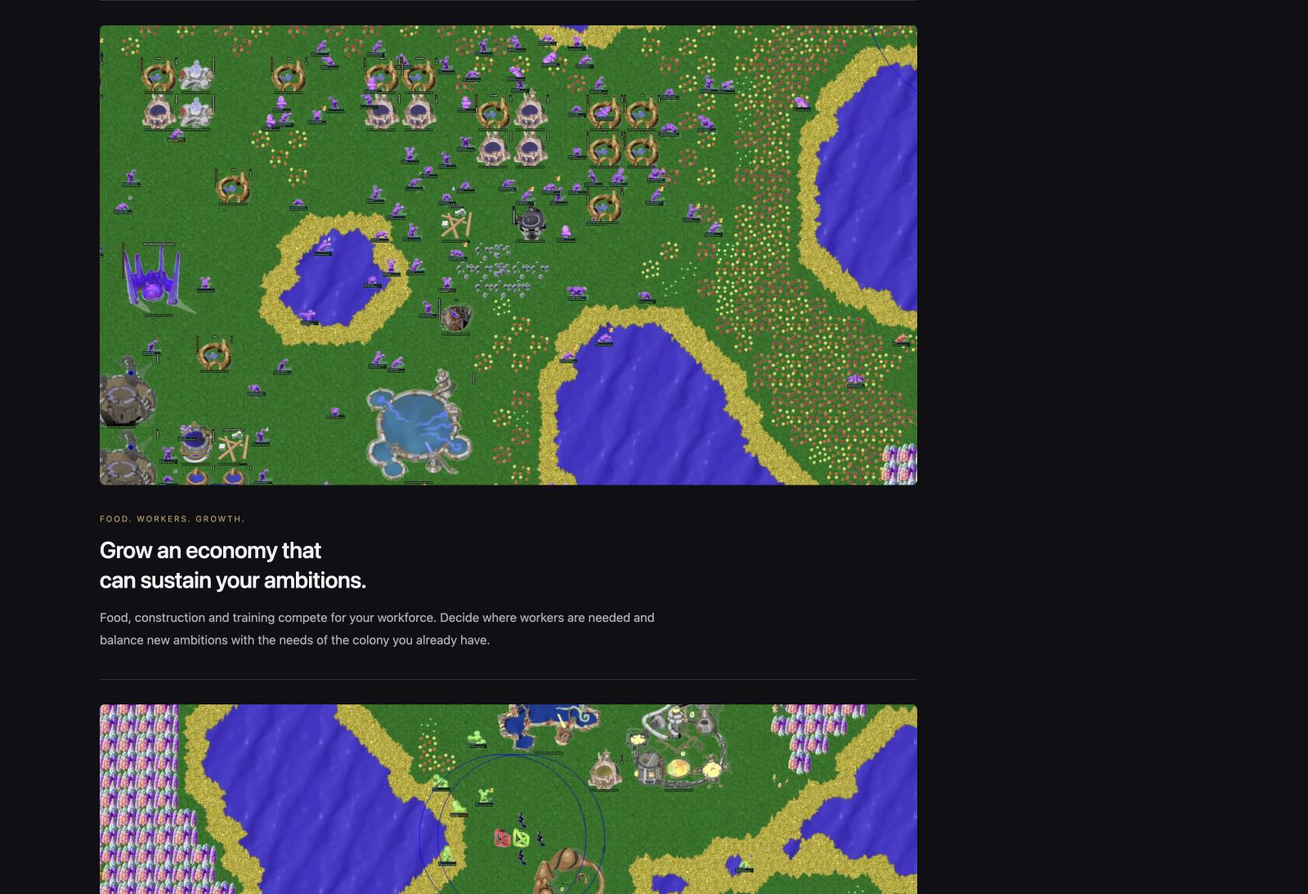
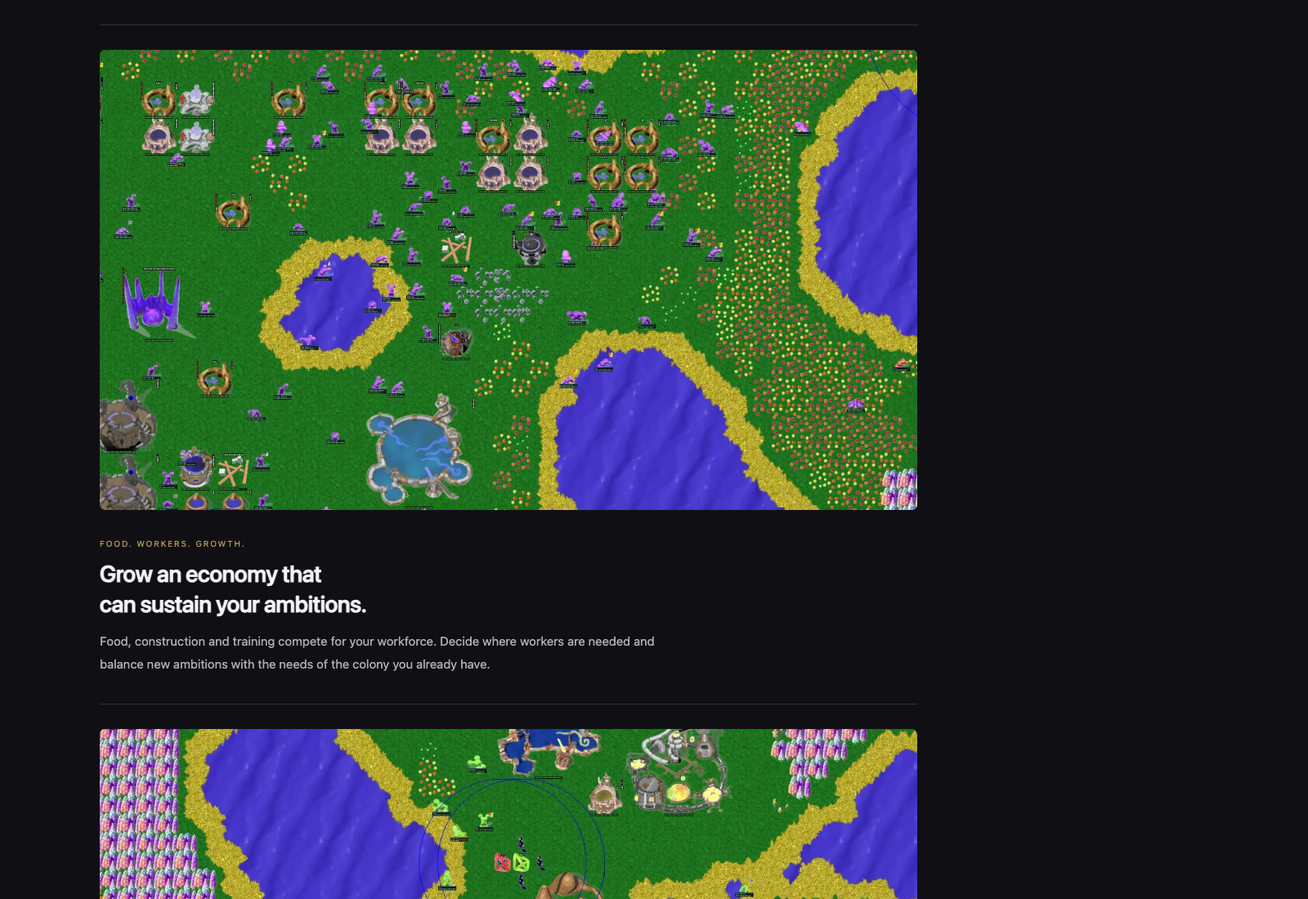
Exclude defective fog capture from store preview
Remove the controls capture from both the gallery and About after the user
identified abnormal fog-of-war rendering. Inspect the existing tutorial,
first-colony and exploration alternatives rather than substituting another
unqualified fog view. Use the documented clean defence replay for the third
About section, describe economic growth under rival pressure, and adjust the
gallery to four entries.

Retain the original PNG and its hash as diagnostic evidence. Mark its capture
record rejected for marketing, retract the earlier normal-fog qualification,
and distinguish the fog-enabled setting from a visually correct render. The
rendering/capture root cause remains unconfirmed; no game-source fix or new
capture is claimed.

Regenerate desktop, About, full-page and mobile review images. Check four
working gallery entries, absence of rejected-image references, decoded assets,
disabled offer action and no mobile overflow. Verify 64 relative links, JSON,
unchanged original capture bytes and whitespace. Record MKT-022 and preserve
remaining current-build capture and store-submission follow-up.

diff --git a/assets/epic-page-preview/style.css b/assets/epic-page-preview/style.css
@@ -1,4 +1,4 @@
-:root{color-scheme:dark;--bg:#101014;--muted:#96969f;--line:#303038;--ink:#f3f3f5;--cream:#f9e8bb;--blue:#26bbff}*{box-sizing:border-box}html{scroll-behavior:auto}body{margin:0;background:var(--bg);color:var(--ink);font:15px/1.65 -apple-system,BlinkMacSystemFont,"Segoe UI",Arial,sans-serif}.reviewbar{height:32px;display:flex;align-items:center;gap:8px;padding:0 28px;background:#202029;font-size:10px;letter-spacing:.12em;color:#c1c1cb}.reviewdot{width:6px;height:6px;background:#e2b85f;border-radius:50%}.reviewright{margin-left:auto;color:#93939f;letter-spacing:.02em}.storebar{height:80px;display:flex;align-items:center;gap:40px;border-bottom:1px solid #202027;padding:0 max(32px,calc((100vw - 1280px)/2))}.storebrand{font-size:22px;font-weight:900;letter-spacing:-.08em}.storelinks{display:flex;gap:28px;color:#a3a3ae;font-size:14px}.search{margin-left:auto;width:210px;background:#24242b;border-radius:24px;padding:8px 16px;font-size:12px;color:#acacb8}.search span{float:right}main{max-width:1280px;margin:auto;padding:40px 32px 0}.breadcrumb{color:#8a8a96;font-size:12px}.breadcrumb span{padding:0 12px;color:#53535e}h1{font-size:42px;line-height:1.2;letter-spacing:-.035em;font-weight:650;margin:22px 0 24px}.tabs{display:flex;gap:26px;height:47px;border-bottom:1px solid var(--line);margin-bottom:28px}.tabs a{color:#9797a1;text-decoration:none;font-size:14px}.tabs a.selected{color:white;border-bottom:2px solid white}.product{display:grid;grid-template-columns:minmax(0,1fr) 282px;gap:44px}.hero{aspect-ratio:16/9;overflow:hidden;border-radius:8px;background:#1b1b22}.hero img{width:100%;height:100%;object-fit:contain}.gallery{display:grid;grid-template-columns:repeat(5,1fr);gap:10px;margin:16px 0 0}.thumb{padding:0;border:2px solid transparent;background:transparent;border-radius:6px;overflow:hidden;position:relative;cursor:pointer;aspect-ratio:16/9;color:white}.thumb img{display:block;width:100%;height:100%;object-fit:cover;opacity:.58;transition:opacity .15s}.thumb span{position:absolute;bottom:0;left:0;right:0;font-size:9px;background:linear-gradient(transparent,#000b);padding:14px 3px 2px;text-shadow:0 1px 3px #000}.thumb.selected{border-color:#eee}.thumb.selected img,.thumb:hover img{opacity:1}.summary{padding:44px 0 34px}.summary h2{font-size:32px;line-height:1.22;letter-spacing:-.025em;font-weight:600;margin:0 0 20px}.summary>p{font-size:16px;color:#b7b7c1;line-height:1.8;margin:0;max-width:700px}.genres{display:grid;grid-template-columns:1fr 1.2fr;gap:24px;margin-top:28px}.genres>div{border-left:1px solid #4b4b56;padding-left:16px}.genres span{font-size:10px;letter-spacing:.12em;color:#7f7f8d}.genres p{margin:4px 0;color:#cccbd4;font-size:12px}.story{border-top:1px solid var(--line);padding-top:30px;margin:10px 0 34px}.story>img{display:block;width:100%;aspect-ratio:16/9;object-fit:cover;border-radius:6px}.storytext{padding:27px 0 0;max-width:700px}.eyebrow{font-size:10px;letter-spacing:.18em;color:#b99c5e}.story h2{font-size:28px;line-height:1.3;font-weight:550;letter-spacing:-.02em;margin:9px 0 14px}.story p{color:#afafb9;font-size:15px;margin:0;line-height:1.85}.opensource{border-top:1px solid var(--line);padding:30px 0 45px}.opensource h3{font-size:21px;font-weight:550;margin:0 0 5px}.opensource p{margin:0;color:#9999a5}aside{padding-top:3px}.wordmark{position:relative;width:260px;aspect-ratio:900/131;margin:28px auto 46px}.offerlabel{font-size:10px;font-weight:700;letter-spacing:.07em;background:#2b2b34;border-radius:3px;width:max-content;padding:3px 8px}.price{font-size:18px;margin:13px 0 16px}.get{width:100%;height:50px;background:var(--blue);color:#04131a;border:0;border-radius:7px;font-size:14px;font-weight:650;opacity:1}.offer-note{color:#7f7f8d;font-size:10px;line-height:1.5;margin:9px 0 24px}.shortpitch{color:#c3c3cd;line-height:1.8;font-size:13px;margin:0 0 22px}.detail{display:flex;justify-content:space-between;padding:13px 0;border-bottom:1px solid var(--line);font-size:11px;color:#858591}.detail strong{font-weight:500;color:#d7d7dd}.pending{font-weight:400;font-size:9px;color:#7f7f8e;margin-left:3px}.pendingfields{font-size:10px;color:#777784;line-height:1.7;padding-top:17px}footer{margin-top:12px;border-top:1px solid #272730;padding:22px 0 28px;color:#62626f;font-size:9px;letter-spacing:.02em}@media(min-width:1500px){main{max-width:1420px}.product{grid-template-columns:minmax(0,1fr) 300px;gap:56px}.wordmark{width:280px}}@media(max-width:980px){main{padding:28px 24px 0}.product{grid-template-columns:minmax(0,1fr) 240px;gap:26px}.wordmark{width:220px}.summary h2{font-size:27px}.storebar{padding:0 24px}.storelinks{gap:16px}.reviewright{display:none}}@media(max-width:740px){.storebar{height:62px}.storelinks{display:none}.search{width:160px}.product{display:flex;flex-direction:column;gap:0}aside{order:-1;padding:0 0 26px;display:grid;grid-template-columns:1fr 115px;column-gap:18px}.wordmark,.offerlabel,.offer-note,.detail,.pendingfields{display:none}.shortpitch{grid-column:1/3;margin:12px 0 0}.price{grid-column:1;grid-row:1;margin:0;align-self:center}.get{grid-column:2;grid-row:1;height:40px}.summary{padding-top:32px}h1{font-size:34px}.genres{grid-template-columns:1fr}.gallery{gap:5px}.thumb span{font-size:8px}.story h2{font-size:25px}.reviewbar{font-size:8px;padding:0 18px}main{padding:24px 18px 0}.summary h2{font-size:27px}.summary>p{font-size:15px}}
+:root{color-scheme:dark;--bg:#101014;--muted:#96969f;--line:#303038;--ink:#f3f3f5;--cream:#f9e8bb;--blue:#26bbff}*{box-sizing:border-box}html{scroll-behavior:auto}body{margin:0;background:var(--bg);color:var(--ink);font:15px/1.65 -apple-system,BlinkMacSystemFont,"Segoe UI",Arial,sans-serif}.reviewbar{height:32px;display:flex;align-items:center;gap:8px;padding:0 28px;background:#202029;font-size:10px;letter-spacing:.12em;color:#c1c1cb}.reviewdot{width:6px;height:6px;background:#e2b85f;border-radius:50%}.reviewright{margin-left:auto;color:#93939f;letter-spacing:.02em}.storebar{height:80px;display:flex;align-items:center;gap:40px;border-bottom:1px solid #202027;padding:0 max(32px,calc((100vw - 1280px)/2))}.storebrand{font-size:22px;font-weight:900;letter-spacing:-.08em}.storelinks{display:flex;gap:28px;color:#a3a3ae;font-size:14px}.search{margin-left:auto;width:210px;background:#24242b;border-radius:24px;padding:8px 16px;font-size:12px;color:#acacb8}.search span{float:right}main{max-width:1280px;margin:auto;padding:40px 32px 0}.breadcrumb{color:#8a8a96;font-size:12px}.breadcrumb span{padding:0 12px;color:#53535e}h1{font-size:42px;line-height:1.2;letter-spacing:-.035em;font-weight:650;margin:22px 0 24px}.tabs{display:flex;gap:26px;height:47px;border-bottom:1px solid var(--line);margin-bottom:28px}.tabs a{color:#9797a1;text-decoration:none;font-size:14px}.tabs a.selected{color:white;border-bottom:2px solid white}.product{display:grid;grid-template-columns:minmax(0,1fr) 282px;gap:44px}.hero{aspect-ratio:16/9;overflow:hidden;border-radius:8px;background:#1b1b22}.hero img{width:100%;height:100%;object-fit:contain}.gallery{display:grid;grid-template-columns:repeat(4,1fr);gap:10px;margin:16px 0 0}.thumb{padding:0;border:2px solid transparent;background:transparent;border-radius:6px;overflow:hidden;position:relative;cursor:pointer;aspect-ratio:16/9;color:white}.thumb img{display:block;width:100%;height:100%;object-fit:cover;opacity:.58;transition:opacity .15s}.thumb span{position:absolute;bottom:0;left:0;right:0;font-size:9px;background:linear-gradient(transparent,#000b);padding:14px 3px 2px;text-shadow:0 1px 3px #000}.thumb.selected{border-color:#eee}.thumb.selected img,.thumb:hover img{opacity:1}.summary{padding:44px 0 34px}.summary h2{font-size:32px;line-height:1.22;letter-spacing:-.025em;font-weight:600;margin:0 0 20px}.summary>p{font-size:16px;color:#b7b7c1;line-height:1.8;margin:0;max-width:700px}.genres{display:grid;grid-template-columns:1fr 1.2fr;gap:24px;margin-top:28px}.genres>div{border-left:1px solid #4b4b56;padding-left:16px}.genres span{font-size:10px;letter-spacing:.12em;color:#7f7f8d}.genres p{margin:4px 0;color:#cccbd4;font-size:12px}.story{border-top:1px solid var(--line);padding-top:30px;margin:10px 0 34px}.story>img{display:block;width:100%;aspect-ratio:16/9;object-fit:cover;border-radius:6px}.storytext{padding:27px 0 0;max-width:700px}.eyebrow{font-size:10px;letter-spacing:.18em;color:#b99c5e}.story h2{font-size:28px;line-height:1.3;font-weight:550;letter-spacing:-.02em;margin:9px 0 14px}.story p{color:#afafb9;font-size:15px;margin:0;line-height:1.85}.opensource{border-top:1px solid var(--line);padding:30px 0 45px}.opensource h3{font-size:21px;font-weight:550;margin:0 0 5px}.opensource p{margin:0;color:#9999a5}aside{padding-top:3px}.wordmark{position:relative;width:260px;aspect-ratio:900/131;margin:28px auto 46px}.offerlabel{font-size:10px;font-weight:700;letter-spacing:.07em;background:#2b2b34;border-radius:3px;width:max-content;padding:3px 8px}.price{font-size:18px;margin:13px 0 16px}.get{width:100%;height:50px;background:var(--blue);color:#04131a;border:0;border-radius:7px;font-size:14px;font-weight:650;opacity:1}.offer-note{color:#7f7f8d;font-size:10px;line-height:1.5;margin:9px 0 24px}.shortpitch{color:#c3c3cd;line-height:1.8;font-size:13px;margin:0 0 22px}.detail{display:flex;justify-content:space-between;padding:13px 0;border-bottom:1px solid var(--line);font-size:11px;color:#858591}.detail strong{font-weight:500;color:#d7d7dd}.pending{font-weight:400;font-size:9px;color:#7f7f8e;margin-left:3px}.pendingfields{font-size:10px;color:#777784;line-height:1.7;padding-top:17px}footer{margin-top:12px;border-top:1px solid #272730;padding:22px 0 28px;color:#62626f;font-size:9px;letter-spacing:.02em}@media(min-width:1500px){main{max-width:1420px}.product{grid-template-columns:minmax(0,1fr) 300px;gap:56px}.wordmark{width:280px}}@media(max-width:980px){main{padding:28px 24px 0}.product{grid-template-columns:minmax(0,1fr) 240px;gap:26px}.wordmark{width:220px}.summary h2{font-size:27px}.storebar{padding:0 24px}.storelinks{gap:16px}.reviewright{display:none}}@media(max-width:740px){.storebar{height:62px}.storelinks{display:none}.search{width:160px}.product{display:flex;flex-direction:column;gap:0}aside{order:-1;padding:0 0 26px;display:grid;grid-template-columns:1fr 115px;column-gap:18px}.wordmark,.offerlabel,.offer-note,.detail,.pendingfields{display:none}.shortpitch{grid-column:1/3;margin:12px 0 0}.price{grid-column:1;grid-row:1;margin:0;align-self:center}.get{grid-column:2;grid-row:1;height:40px}.summary{padding-top:32px}h1{font-size:34px}.genres{grid-template-columns:1fr}.gallery{gap:5px}.thumb span{font-size:8px}.story h2{font-size:25px}.reviewbar{font-size:8px;padding:0 18px}main{padding:24px 18px 0}.summary h2{font-size:27px}.summary>p{font-size:15px}}
 
 /* Display the supplied Epic product-logo canvas without its transparent upper/lower margins. */
 .wordmark{height:76px;aspect-ratio:auto;margin:12px auto 28px}.wordmark img{width:100%;height:100%;object-fit:cover;display:block}

diff --git a/assets/epic-page-preview/index.html b/assets/epic-page-preview/index.html
@@ -20,12 +20,11 @@
 <button class="thumb" aria-pressed="false" data-image="media/colony.webp" data-alt="A productive colony, with workers, food, buildings and resources"><img src="media/colony.webp" alt="Colony"><span>Colony</span></button>
 <button class="thumb" aria-pressed="false" data-image="media/expansion.webp" data-alt="Colony expansion across a contested map"><img src="media/expansion.webp" alt="Expansion"><span>Expansion</span></button>
 <button class="thumb" aria-pressed="false" data-image="media/defence.webp" data-alt="A defended colony and rival pressure"><img src="media/defence.webp" alt="Rival pressure"><span>Rival pressure</span></button>
-<button class="thumb" aria-pressed="false" data-image="../epic-gameplay-v1/early-colony-controls.png" data-alt="Current browser player view: selected Inn worker demand and food supply"><img src="../epic-gameplay-v1/early-colony-controls.png" alt="Controls"><span>Controls</span></button>
 </div>
 <section class="summary" id="about"><h2>Build a thriving colony<br>in contested territory.</h2><p>Food, workers and space shape your expansion. Grow a sprawling colony, balance its competing needs, and contend with rivals for land and resources. Your creatures act autonomously, letting you guide the colony as a whole.</p><div class="genres"><div><span>GENRES</span><p>Strategy · Real-Time Strategy</p></div><div><span>FOCUS</span><p>Colony building · Resource management</p></div></div></section>
 <section class="story"><img src="media/colony.webp" alt="A colony economy of buildings, food supplies and workers"><div class="storytext"><span class="eyebrow">FOOD. WORKERS. GROWTH.</span><h2>Grow an economy that<br>can sustain your ambitions.</h2><p>Food, construction and training compete for your workforce. Decide where workers are needed and balance new ambitions with the needs of the colony you already have.</p></div></section>
 <section class="story"><img src="media/expansion.webp" alt="Colonies and resources spread across terrain"><div class="storytext"><span class="eyebrow">ROOM TO GROW</span><h2>Make the map<br>part of your strategy.</h2><p>Shape your base around the land and resources. Choose where to expand, and consider what each new foothold means for your economy and your rivals.</p></div></section>
-<section class="story"><img src="../epic-gameplay-v1/early-colony-controls.png" alt="Current browser player view showing selected Inn worker demand and food supply"><div class="storytext"><span class="eyebrow">THE COLONY AS A WHOLE</span><h2>Guide the colony<br>as a whole.</h2><p>Set worker demand and place flags while your creatures handle their own movement and needs. Guide the colony through its priorities, and adapt as its needs change. Your economy supports both growth and defense as rivals compete for land and resources.</p></div></section>
+<section class="story"><img src="media/defence.webp" alt="Replay view of a defended colony with rival pressure"><div class="storytext"><span class="eyebrow">GROWTH UNDER PRESSURE</span><h2>Defend what<br>you've built.</h2><p>Your economy supports both growth and defense. Balance the needs of your colony while rivals compete for land and resources, and prepare for conflicts that can decide the match.</p></div></section>
 <div class="opensource"><h3>Free and open source.</h3><p>A strategy game to play, explore and help shape.</p></div>
 </div>
 <aside>
@@ -40,7 +39,7 @@
 
 </aside>
 </div>
-<footer>LOCAL CONTENT PREVIEW · Illustrated cover, documented replay views and a current browser controls screenshot. See provenance notes.</footer>
+<footer>LOCAL CONTENT PREVIEW · Illustrated cover and documented replay views. See provenance notes.</footer>
 </main>
 <script src="preview.js"></script>
 </body></html>

diff --git a/assets/epic-page-preview/README.md b/assets/epic-page-preview/README.md
@@ -18,7 +18,7 @@ The proposed Free/Windows offer follows the existing Epic preparation record. It
 
 ## Content and provenance
 
-Copy derives from the [selected positioning](../../analysis/positioning-v1.md) and [Epic description draft](../../planning/epic-store-profile-v1.md), shortened for scanability. The page presents the colony economy first, spatial growth second, and control/rival pressure as supporting parts of the experience.
+Copy derives from the [selected positioning](../../analysis/positioning-v1.md) and [Epic description draft](../../planning/epic-store-profile-v1.md), shortened for scanability. The page presents the colony economy first, spatial growth second, and rival pressure as a supporting part of the experience.
 
 The hero uses the [v5 landscape illustration](../epic-v5/README.md), with its existing title and exact source-unit silhouettes. It is promotional key art, not a gameplay screenshot. The product logo uses the v5 transparent export. Both are linked directly from the sibling pack to avoid divergent copies. Existing genuine gallery and About references are copied unchanged from the website:
 
@@ -27,23 +27,23 @@ The hero uses the [v5 landscape illustration](../epic-v5/README.md), with its ex
 | `media/colony.webp` | `public/images/home-thriving-colony.webp` | Replay view: colony/economy composition |
 | `media/expansion.webp` | `public/images/home-rival-expansion.webp` | Replay view: territorial context |
 | `media/defence.webp` | `public/images/home-colony-defence.webp` | Replay view: rival pressure |
-| [Current controls capture](../epic-gameplay-v1/early-colony-controls.png) | Public browser build, captured 2026-10-26 | Live local-player view: Inn worker demand, normal fog and HUD, 2560×1440 |
 
-Website source revision: [6e391ebe93b725747827a3ed7cea78f0d0d8f7e1](https://github.com/Globulation2/glob2-online-website/tree/6e391ebe93b725747827a3ed7cea78f0d0d8f7e1). The homepage replay views were recorded 2026-10-11 on Fingerprint / Quick clash, tick 41350, with fog disabled and outer HUD cropped. They are not fresh player-view captures of the Epic Windows edition. The fresh controls image follows the [current capture manifest](../epic-gameplay-v1/capture-manifest.json); it is browser evidence, not Epic Windows launcher qualification. Source roles and limitations belong in submission provenance even when the preview presents images cleanly.
+
+Website source revision: [6e391ebe93b725747827a3ed7cea78f0d0d8f7e1](https://github.com/Globulation2/glob2-online-website/tree/6e391ebe93b725747827a3ed7cea78f0d0d8f7e1). The homepage replay views were recorded 2026-10-11 on Fingerprint / Quick clash, tick 41350, with fog disabled and outer HUD cropped. They are not fresh player-view captures of the Epic Windows edition. The [newer controls capture](../epic-gameplay-v1/README.md) was rejected after the user identified abnormal fog rendering; it is excluded from the gallery and About. The earlier “normal fog” wording described an enabled setting without establishing visual correctness. The original remains diagnostic evidence only. The tutorial/first-colony alternatives were also inspected and contain irregular grey fog, so no unqualified replacement was substituted. Source roles and limitations belong in submission provenance even when the preview presents images cleanly.
 
 The v5 [provenance record](../epic-v5/README.md) covers its generated environment, actual game-unit silhouettes, existing wordmark masks and maintained cream/gold colors. This page introduces no third-party game art or additional character substitutes. See the [source provenance ledger](../../facts/assets.md) and original project notices for art/attribution context; this review does not finish release rights clearance.
 
 ## Remaining production work
 
-The cover is the current v5 direction; the genuine gallery combines documented earlier replay captures with a fresh current-browser controls view. Replace that gallery with stronger current-build captures when ready, verify the copy in Epic's actual field/preview system, and populate release-specific metadata from the qualified build. This file does not authorize uploads or publication.
+The cover is the current v5 direction; the genuine gallery uses documented earlier replay captures only. The gallery has four entries: cover, colony, expansion and rival pressure. The third About section uses the defence replay and discusses economic growth under rival pressure. A clean current-build controls image remains outstanding. Replace that gallery with stronger current-build captures when ready, verify the copy in Epic's actual field/preview system, and populate release-specific metadata from the qualified build. This file does not authorize uploads or publication.
 
 ## Visual checks
 
-Rendered in the local browser at 1600×1100 desktop and 390×844 mobile. The mobile document has no horizontal overflow, and all images load. Gallery interaction switches the hero and updates selection state. The Get control remains disabled. No custom fonts are bundled; typography uses the system font stack.
+Rendered in the local browser at 1600×1100 desktop and 390×844 mobile. The mobile document has no horizontal overflow, and all images load. Gallery interaction switches the hero and updates selection state. The rejected controls image is absent from both gallery and About. The Get control remains disabled. No custom fonts are bundled; typography uses the system font stack.
 
 - [Desktop overview](desktop-overview.png)
 - [About section](about-section.png)
 - [Full-page review](desktop-full-page.jpg)
 - [Mobile overview](mobile-overview.png)
 
-The full-page review assembles overlapping browser viewport captures at their measured scroll offsets, with no content alterations. It is a local presentation review, not an Epic portal screenshot.
+After excluding the defective controls image, all four review images were regenerated with local headless Chromium at the documented desktop/mobile viewports. The full-page image is a direct full-page browser render, with no stitching or content alterations. It is a local presentation review, not an Epic portal screenshot. Four gallery entries, loaded images, disabled Get, absence of rejected-image references and no mobile overflow were checked.

diff --git a/planning/tasks.md b/planning/tasks.md
@@ -34,10 +34,11 @@ On 2026-10-26, the user authorized completing the public platform audit and draf
 | MKT-019 | Adapt the profile and prepare first artwork for Epic Games Store | Complete | [Epic profile](epic-store-profile-v1.md), [official requirements check](epic-store-requirements.md) and [artwork pack](../assets/epic-v1/README.md). Epic selected by the user; prepared copy, current official requirements and three artwork review drafts. Portal metadata, actual-game carousel capture, logo negative-space treatment and offer crop qualification remain unfinished; no upload or submission occurred. |
 | MKT-020 | Review real game-store artwork and rebuild Epic key art | Complete | [Six-game visual reference review](store-art-reference-review.md) informed the [current illustrated offer pack](../assets/epic-v5/README.md): one environment illustration, exact source worker/warrior shapes at environmental scale, existing title and coherent landscape/portrait exports. Bounded art rework is prepared for review; user visual feedback, rights and final portal crop checks remain publication follow-up. Earlier studies remain historical; no store upload. |
 | MKT-021 | Assemble and visually review a coherent Epic store presentation | Complete | [Local page presentation](../assets/epic-page-preview/README.md) integrates the v5 illustrated cover, selected colony/economy positioning, genuine dated replay gallery and a [fresh current-browser controls view](../assets/epic-gameplay-v1/README.md). Desktop, About section and mobile reviewed; gallery interaction and image loading checked. This is a local review deliverable, not user acceptance, an Epic portal page or publication. |
+| MKT-022 | Exclude defective fog-of-war capture from the store presentation | Complete | Removed the rejected controls view from the [gallery and About](../assets/epic-page-preview/README.md); retained the original [capture as diagnostic evidence](../assets/epic-gameplay-v1/README.md), retracted “normal fog” qualification and used documented fog-disabled replay imagery. Root cause remains unconfirmed; no game-rendering fix or replacement capture is claimed. |
 
 The user rejected the first artwork direction on 2026-10-26 as presentation-like. Its files remain historical evidence; the current art task is a full-bleed, image-led replacement informed by actual store covers, with title hierarchy and colony/economy imagery. The first generated illustration’s globs were also rejected. The subsequent [organism-shape study](../assets/epic-v2/README.md) remains historical: it relied too heavily on a generic icon rather than preserving distinct unit proportions. The user directed use of real character images, with longer, slender workers and bulkier warriors. [Unchanged source renders and a matched comparison sheet](../assets/epic-v2/unit-references/README.md) now supply that reference. A source-reference edit still failed to preserve exact anatomy. The [actual-source cover direction](../assets/epic-v4/README.md) instead uses an unchanged game scene with the existing title, keeping the real unit shapes. The [failed source-reference illustration](../assets/epic-v3/README.md) remains historical. The source covers are native-size review drafts, not submission exports; user visual feedback, fresh high-resolution captures and store qualification remain open.
 
-**Current artwork direction:** the [v5 pack](../assets/epic-v5/README.md) is the working flagship for the professional Epic presentation. The user asked for professional execution regardless of technique. The illustration contains no generated units: real slender workers and bulkier warriors preserve source silhouettes, with team tint and environmental-scale placement. Genuine gameplay media is kept separate. The draft is not a published or user-approved store asset. The [assembled page](../assets/epic-page-preview/README.md) now shows that direction in context, with a [fresh supporting control screenshot](../assets/epic-gameplay-v1/README.md). Stronger current-build mature-colony/economy/rival images, verified Windows release metadata and the actual Epic field/crop preview remain outstanding.
+**Current artwork direction:** the [v5 pack](../assets/epic-v5/README.md) is the working flagship for the professional Epic presentation. The user asked for professional execution regardless of technique. The illustration contains no generated units: real slender workers and bulkier warriors preserve source silhouettes, with team tint and environmental-scale placement. Genuine gameplay media is kept separate. The draft is not a published or user-approved store asset. The [assembled page](../assets/epic-page-preview/README.md) now shows that direction in context, with documented replay imagery. The [fresh control screenshot](../assets/epic-gameplay-v1/README.md) was subsequently rejected for abnormal fog rendering and excluded under MKT-022. Stronger current-build mature-colony/economy/rival images, verified Windows release metadata and the actual Epic field/crop preview remain outstanding.
 
 The three-player preparation task remains complete as historical work; the user cancelled its immediate execution in favor of discussion. The working v1 message is selected. Larger gameplay, access/continuity and creator studies remain deferred, without being launch prerequisites.
 

diff --git a/assets/epic-gameplay-v1/README.md b/assets/epic-gameplay-v1/README.md
@@ -1,13 +1,15 @@
-# Current browser gameplay capture
+# Rejected browser gameplay capture
 
 [Epic profile](../../planning/epic-store-profile-v1.md) · [Capture manifest](capture-manifest.json)
 
+**Status, 2026-10-26:** rejected for marketing use after the user identified abnormal fog-of-war rendering. The original PNG is retained unchanged as diagnostic evidence and is excluded from the store preview. Root cause is unconfirmed; this is not a repaired game-rendering bug.
+
 Captured **2026-10-26** from the public browser game in a fresh local-player bot match. No account, login or multiplayer interaction occurred.
 
-[Early colony controls](early-colony-controls.png) is an unchanged **2560×1440** browser screenshot with normal player fog and HUD. The selected Inn shows worker demand and food supply. It is a supporting economy/control view, not a mature-colony hero image. Suggested caption: **Guide worker demand and keep the colony supplied.**
+[Early colony controls](early-colony-controls.png) is an unchanged **2560×1440** browser screenshot with player fog enabled and the HUD retained. Its washed-out grey shading and coarse tiled fog were rejected in visual review. The earlier description of “normal player fog” asserted more than the capture settings established. Do not use this image in a gallery, About section or submission.
 
 The actual scene uses the Fingerprint generator, 128×128 map, Quick clash, You + AI Maxima against Nicowar, Cabino and Maxima. The screenshot follows a diagnostics sample at tick2672; the simulation continued during screenshot capture, so the manifest does not assert an exact frame tick. Camera zoom is133%. No pixels were generated, cropped, resized, composited or retouched.
 
 The manifest records dimensions, PNG hash, renderer, sampled runtime state and public package hashes fetched immediately after capture. The game version was not established from the diagnostics; schema version1 is not a game release version. This does not qualify the Windows Epic edition.
 
-The bounded run reached an early colony only. The existing dated, disclosed replay images remain the mature-colony gallery for this presentation; no fresh large battle or rival screenshot is claimed.
+The bounded run reached an early colony only, and its rendering was not visually qualified. The existing dated, disclosed replay images remain the mature-colony gallery for this presentation; no fresh large battle or rival screenshot is claimed.
